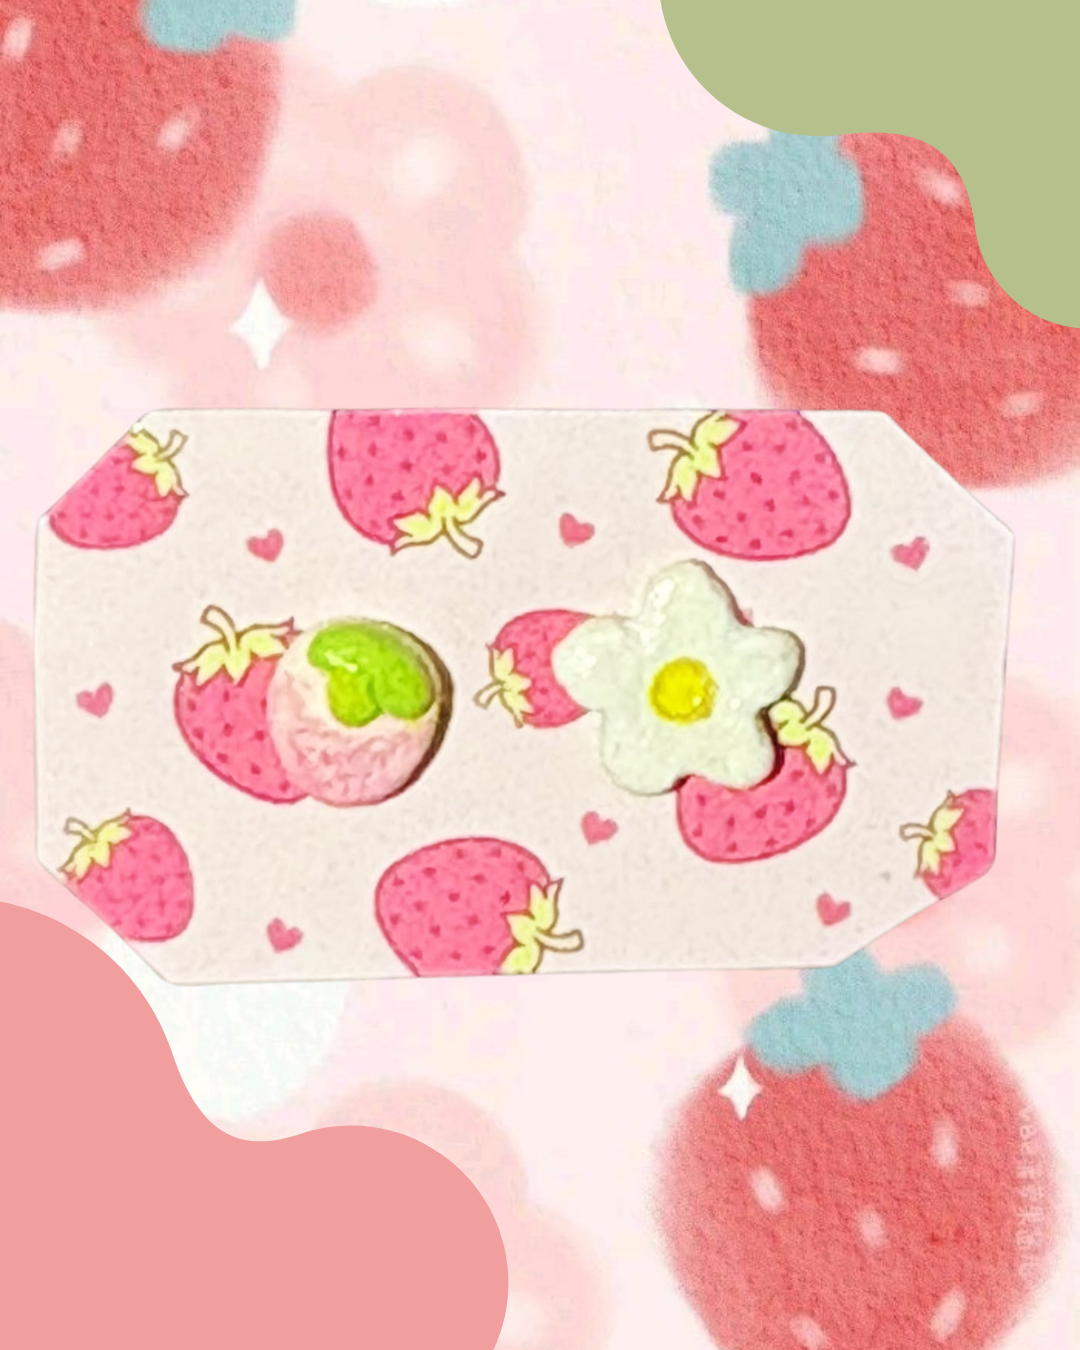
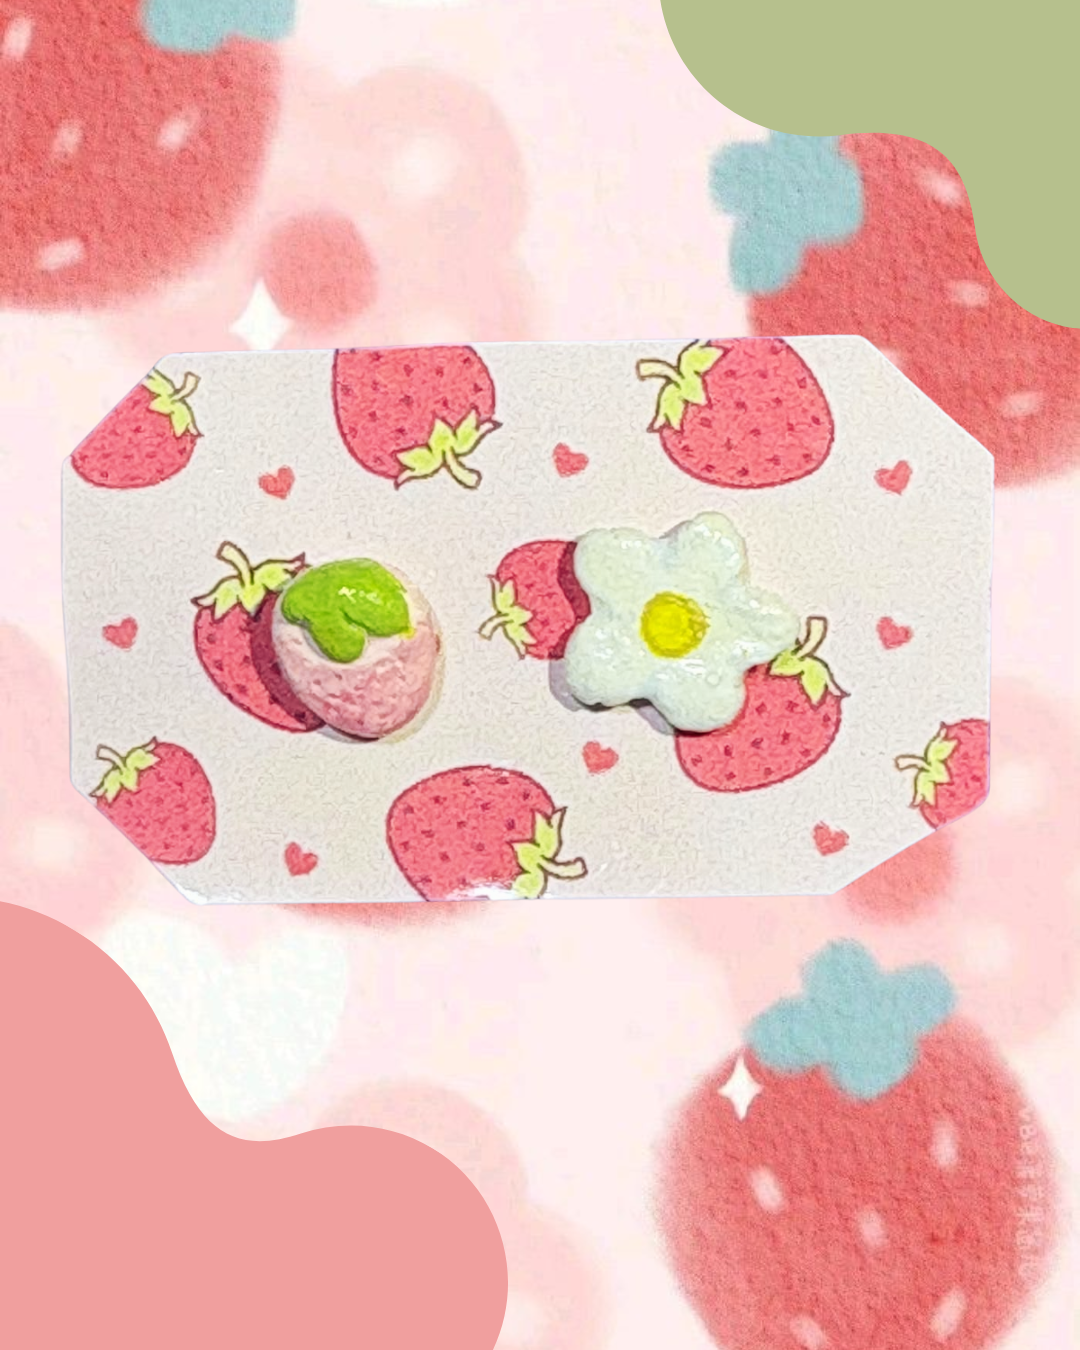
Agregué la colección de perritos, hojita y llavero gatuno

Changed region(s): [[0.0306, 0.2489, 0.9472, 0.7467]]

diff --git a/index.html b/index.html
@@ -247,6 +247,54 @@
             </div>
         </div>
 
+        <h2 class="titulo-coleccion">Colección Perritos</h2>
+        <div class="grid-productos">
+            <div class="tarjeta-minimalista" data-categoria="aretes">
+                <div class="caja-foto"><img src="58.png" alt="Perrito Salchicha" class="foto-producto"></div>
+                <div class="detalles-producto">
+                    <h3>Perrito Salchicha</h3><p class="categoria">Edición Perritos</p><p class="descripcion">Perrito salchicha con su huellita y una pequeña flor en la esquina de la patita.</p>
+                    <div class="precio">S/ 12.00</div>
+                    <select class="material-select" style="width: 100%; margin-bottom: 10px;">
+                        <option value="acero">Acero Inoxidable (S/ 12.00)</option>
+                        <option value="plata">Plata 925 (+ S/ 15.00)</option>
+                    </select><a href="https://wa.me/TU_NUMERO?text=Hola%20Atelier%20Gala,%20quiero%20la%20pieza:%20Perrito%20Salchicha" target="_blank" class="btn-whatsapp">Consultar Pieza</a>
+                </div>
+            </div>
+            <div class="tarjeta-minimalista" data-categoria="aretes">
+                <div class="caja-foto"><img src="59.png" alt="Perrito Crema" class="foto-producto"></div>
+                <div class="detalles-producto">
+                    <h3>Perrito Crema</h3><p class="categoria">Edición Perritos</p><p class="descripcion">Perrito crema con el hocico marrón y su patita.</p>
+                    <div class="precio">S/ 12.00</div>
+                    <select class="material-select" style="width: 100%; margin-bottom: 10px;">
+                        <option value="acero">Acero Inoxidable (S/ 12.00)</option>
+                        <option value="plata">Plata 925 (+ S/ 15.00)</option>
+                    </select><a href="https://wa.me/TU_NUMERO?text=Hola%20Atelier%20Gala,%20quiero%20la%20pieza:%20Perrito%20Crema" target="_blank" class="btn-whatsapp">Consultar Pieza</a>
+                </div>
+            </div>
+            <div class="tarjeta-minimalista" data-categoria="aretes">
+                <div class="caja-foto"><img src="60.png" alt="Shiba Inu" class="foto-producto"></div>
+                <div class="detalles-producto">
+                    <h3>Shiba Inu</h3><p class="categoria">Edición Perritos</p><p class="descripcion">Perrito shiba inu con su patita.</p>
+                    <div class="precio">S/ 12.00</div>
+                    <select class="material-select" style="width: 100%; margin-bottom: 10px;">
+                        <option value="acero">Acero Inoxidable (S/ 12.00)</option>
+                        <option value="plata">Plata 925 (+ S/ 15.00)</option>
+                    </select><a href="https://wa.me/TU_NUMERO?text=Hola%20Atelier%20Gala,%20quiero%20la%20pieza:%20Shiba%20Inu" target="_blank" class="btn-whatsapp">Consultar Pieza</a>
+                </div>
+            </div>
+            <div class="tarjeta-minimalista" data-categoria="aretes">
+                <div class="caja-foto"><img src="61.png" alt="Perrito Bicolor" class="foto-producto"></div>
+                <div class="detalles-producto">
+                    <h3>Perrito Bicolor</h3><p class="categoria">Edición Perritos</p><p class="descripcion">Perrito marrón con blanco y su huellita.</p>
+                    <div class="precio">S/ 12.00</div>
+                    <select class="material-select" style="width: 100%; margin-bottom: 10px;">
+                        <option value="acero">Acero Inoxidable (S/ 12.00)</option>
+                        <option value="plata">Plata 925 (+ S/ 15.00)</option>
+                    </select><a href="https://wa.me/TU_NUMERO?text=Hola%20Atelier%20Gala,%20quiero%20la%20pieza:%20Perrito%20Bicolor" target="_blank" class="btn-whatsapp">Consultar Pieza</a>
+                </div>
+            </div>
+        </div>
+
         <!-- ==========================================
              SUBTÍTULO: COLECCIÓN GATUNA
              ========================================== -->
@@ -701,6 +749,17 @@
                     </select><a href="https://wa.me/TU_NUMERO?text=Hola%20Atelier%20Gala,%20me%20interesan%20los%20Aretes%20Hojitas%20Otoñales" target="_blank" class="btn-whatsapp">Consultar Pieza</a>
                 </div>
             </div>
+            <div class="tarjeta-minimalista" data-categoria="aretes">
+                <div class="caja-foto"><img src="63.png" alt="Hoja y Honguito" class="foto-producto"></div>
+                <div class="detalles-producto">
+                    <h3>Hoja y Honguito</h3><p class="categoria">Edición Bosque</p><p class="descripcion">Una hermosa hoja verde haciendo juego con un tierno honguito rojo.</p>
+                    <div class="precio">S/ 15.00</div>
+                    <select class="material-select" style="width: 100%; margin-bottom: 10px;">
+                        <option value="acero">Acero Inoxidable (S/ 12.00)</option>
+                        <option value="plata">Plata 925 (+ S/ 15.00)</option>
+                    </select><a href="https://wa.me/TU_NUMERO?text=Hola%20Atelier%20Gala,%20quiero%20la%20pieza:%20Hoja%20y%20Honguito" target="_blank" class="btn-whatsapp">Consultar Pieza</a>
+                </div>
+            </div>
         </div>
 
         <!-- ==========================================
@@ -739,6 +798,20 @@
                         <option value="acero">Acero Inoxidable (S/ 12.00)</option>
                         <option value="plata">Plata 925 (+ S/ 15.00)</option>
                     </select><a href="https://wa.me/TU_NUMERO?text=Hola%20Atelier%20Gala,%20me%20interesa%20el%20Llavero%20Totoro%20Mágico" target="_blank" class="btn-whatsapp">Consultar Pieza</a>
+                </div>
+            </div>
+        </div>
+        <h2 class="titulo-coleccion">Colección Llaveros Gatuna</h2>
+        <div class="grid-productos">
+            <div class="tarjeta-minimalista" data-categoria="llaveros">
+                <div class="caja-foto"><img src="62.png" alt="Llavero Gato Negro" class="foto-producto"></div>
+                <div class="detalles-producto">
+                    <h3>Llavero Gato Negro</h3><p class="categoria">Edición Llaveros</p><p class="descripcion">Gato negro con ojos verdes. El llavero tiene silueta de la cara de un gato y un dije de una patita verde.</p>
+                    <div class="precio">S/ 18.00</div>
+                    <select class="material-select" style="width: 100%; margin-bottom: 10px;">
+                        <option value="acero">Acero Inoxidable (S/ 12.00)</option>
+                        <option value="plata">Plata 925 (+ S/ 15.00)</option>
+                    </select><a href="https://wa.me/TU_NUMERO?text=Hola%20Atelier%20Gala,%20quiero%20la%20pieza:%20Llavero%20Gato%20Negro" target="_blank" class="btn-whatsapp">Consultar Pieza</a>
                 </div>
             </div>
         </div>
